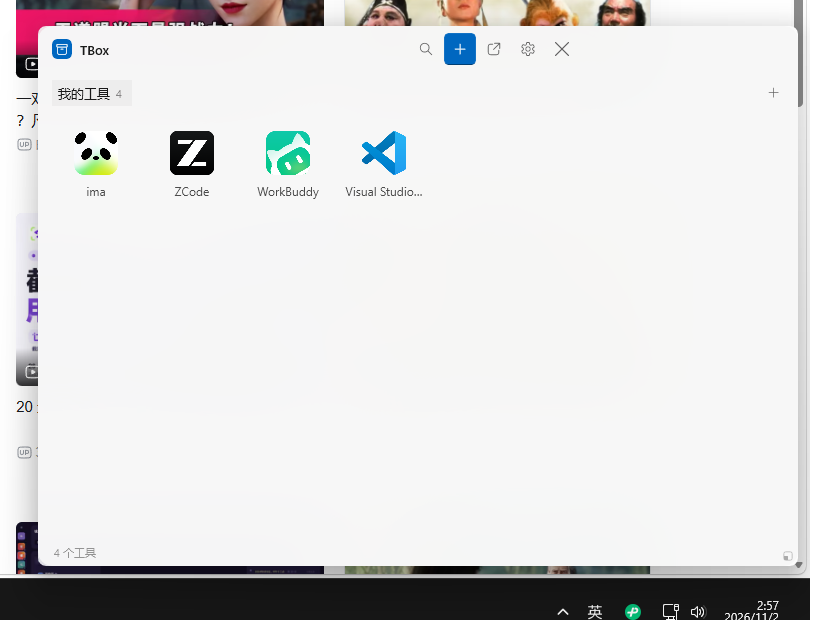
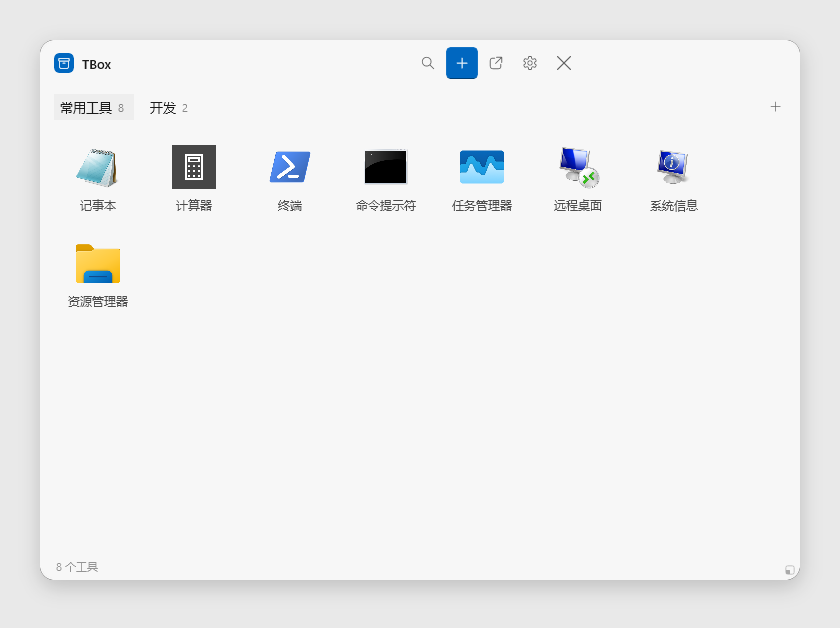
docs: clean screenshots on a neutral background
- capture window surfaces with PrintWindow and compose them onto a flat backdrop
- neutral demo data instead of personal tools
- fix generic shell icons (icon index 0 is valid)
- stronger expand tab in the light-theme capsule
- add print-window / find-window helper scripts

diff --git a/src/TBox.WinUI/CapsuleWindow.cs b/src/TBox.WinUI/CapsuleWindow.cs
@@ -173,6 +173,8 @@ internal sealed class CapsuleWindow
 
         WindowChrome.RemoveNonClientFrame(Handle);
         DwmChrome.ApplyBorderless(Handle);
+        _hovered = true;
+        SetExpandHover(false);
         _window.AppWindow.Hide();
     }
 
@@ -238,8 +240,8 @@ internal sealed class CapsuleWindow
         if (_hovered == hovered) return;
         _hovered = hovered;
 
-        var idleBg = AppTheme.IsDark ? Color.FromArgb(38, 255, 255, 255) : Color.FromArgb(20, 0, 0, 0);
-        var idleFg = AppTheme.IsDark ? Color.FromArgb(235, 255, 255, 255) : Color.FromArgb(210, 0, 0, 0);
+        var idleBg = AppTheme.IsDark ? Color.FromArgb(38, 255, 255, 255) : Color.FromArgb(26, 0, 0, 0);
+        var idleFg = AppTheme.IsDark ? Color.FromArgb(235, 255, 255, 255) : Color.FromArgb(230, 0, 0, 0);
 
         _expandStrip.Background = new SolidColorBrush(hovered
             ? Color.FromArgb(90, 0, 120, 212)

diff --git a/src/TBox.WinUI/Services/ShellIcons.cs b/src/TBox.WinUI/Services/ShellIcons.cs
@@ -117,7 +117,8 @@ public static class ShellIcons
             var shfi = new SHFILEINFO();
             var result = SHGetFileInfo(path, 0, ref shfi, (uint)Marshal.SizeOf<SHFILEINFO>(),
                 SHGFI_SYSICONINDEX | SHGFI_LARGEICON);
-            if (result != IntPtr.Zero && shfi.iIcon > 0)
+            // Index 0 is a valid (generic) icon; only a failed SHGetFileInfo disqualifies.
+            if (result != IntPtr.Zero && shfi.iIcon >= 0)
             {
                 foreach (var listType in new[] { SHIL_JUMBO, SHIL_EXTRALARGE, SHIL_LARGE })
                 {
